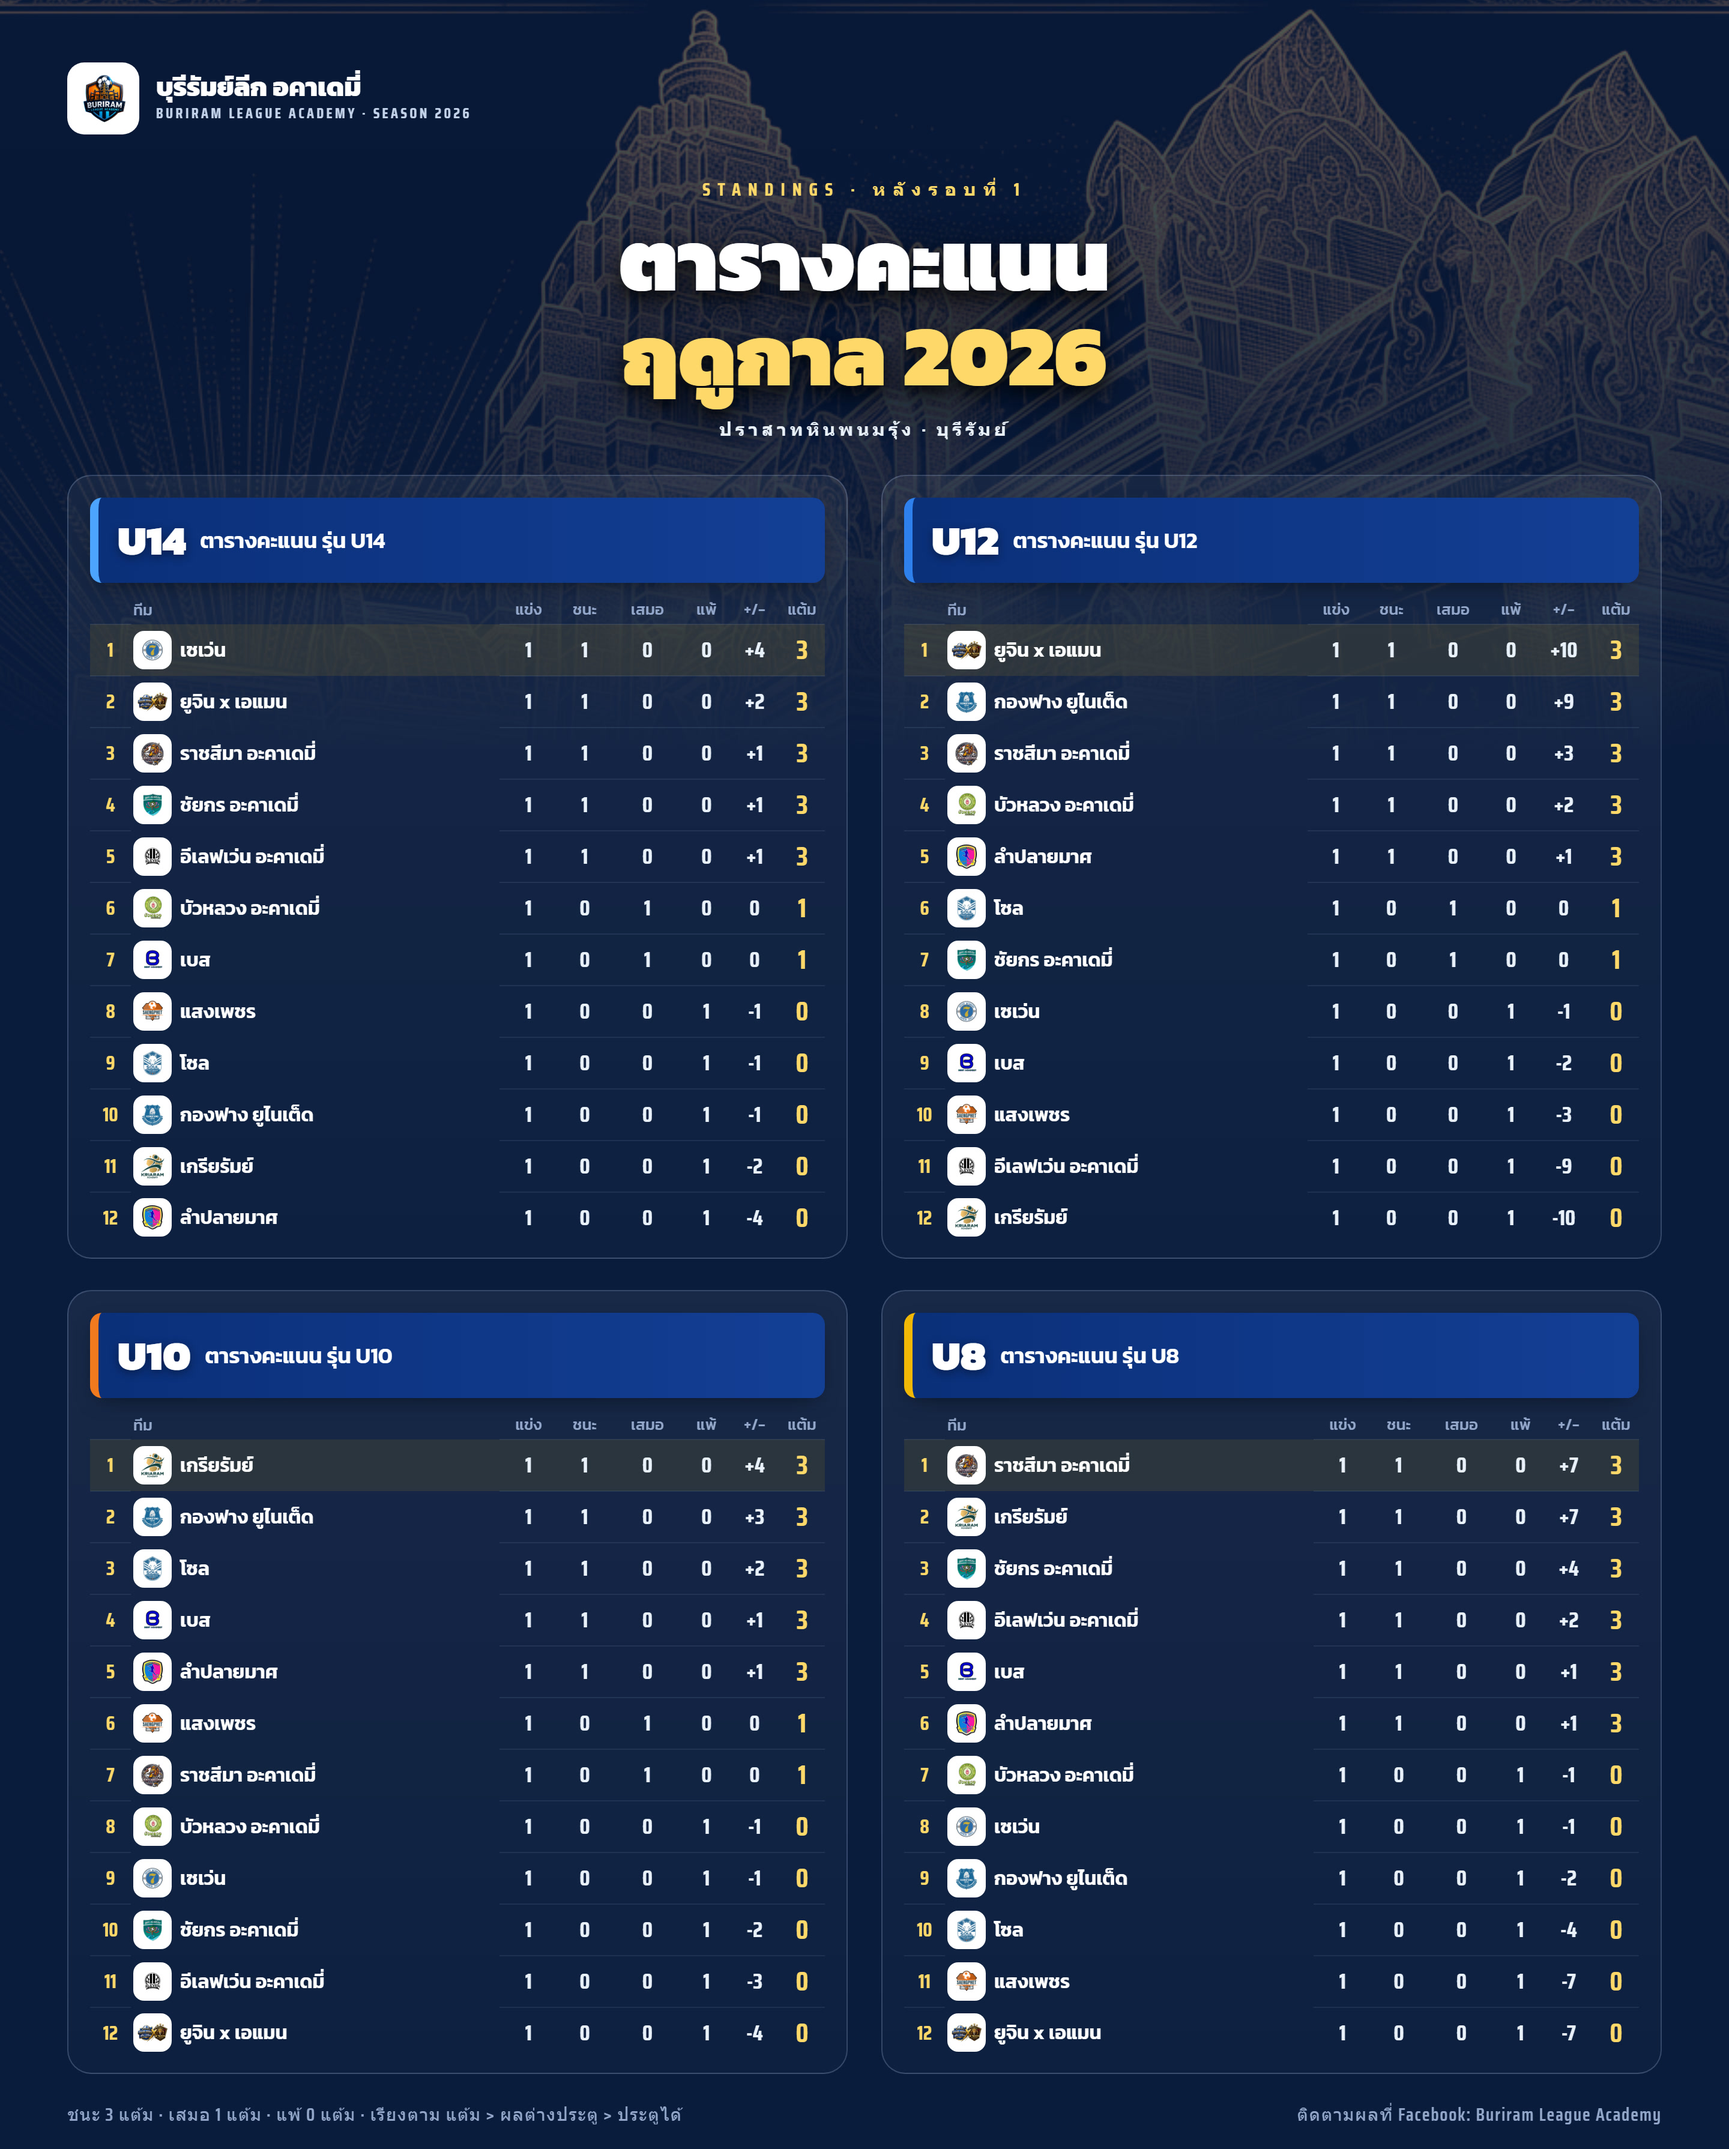
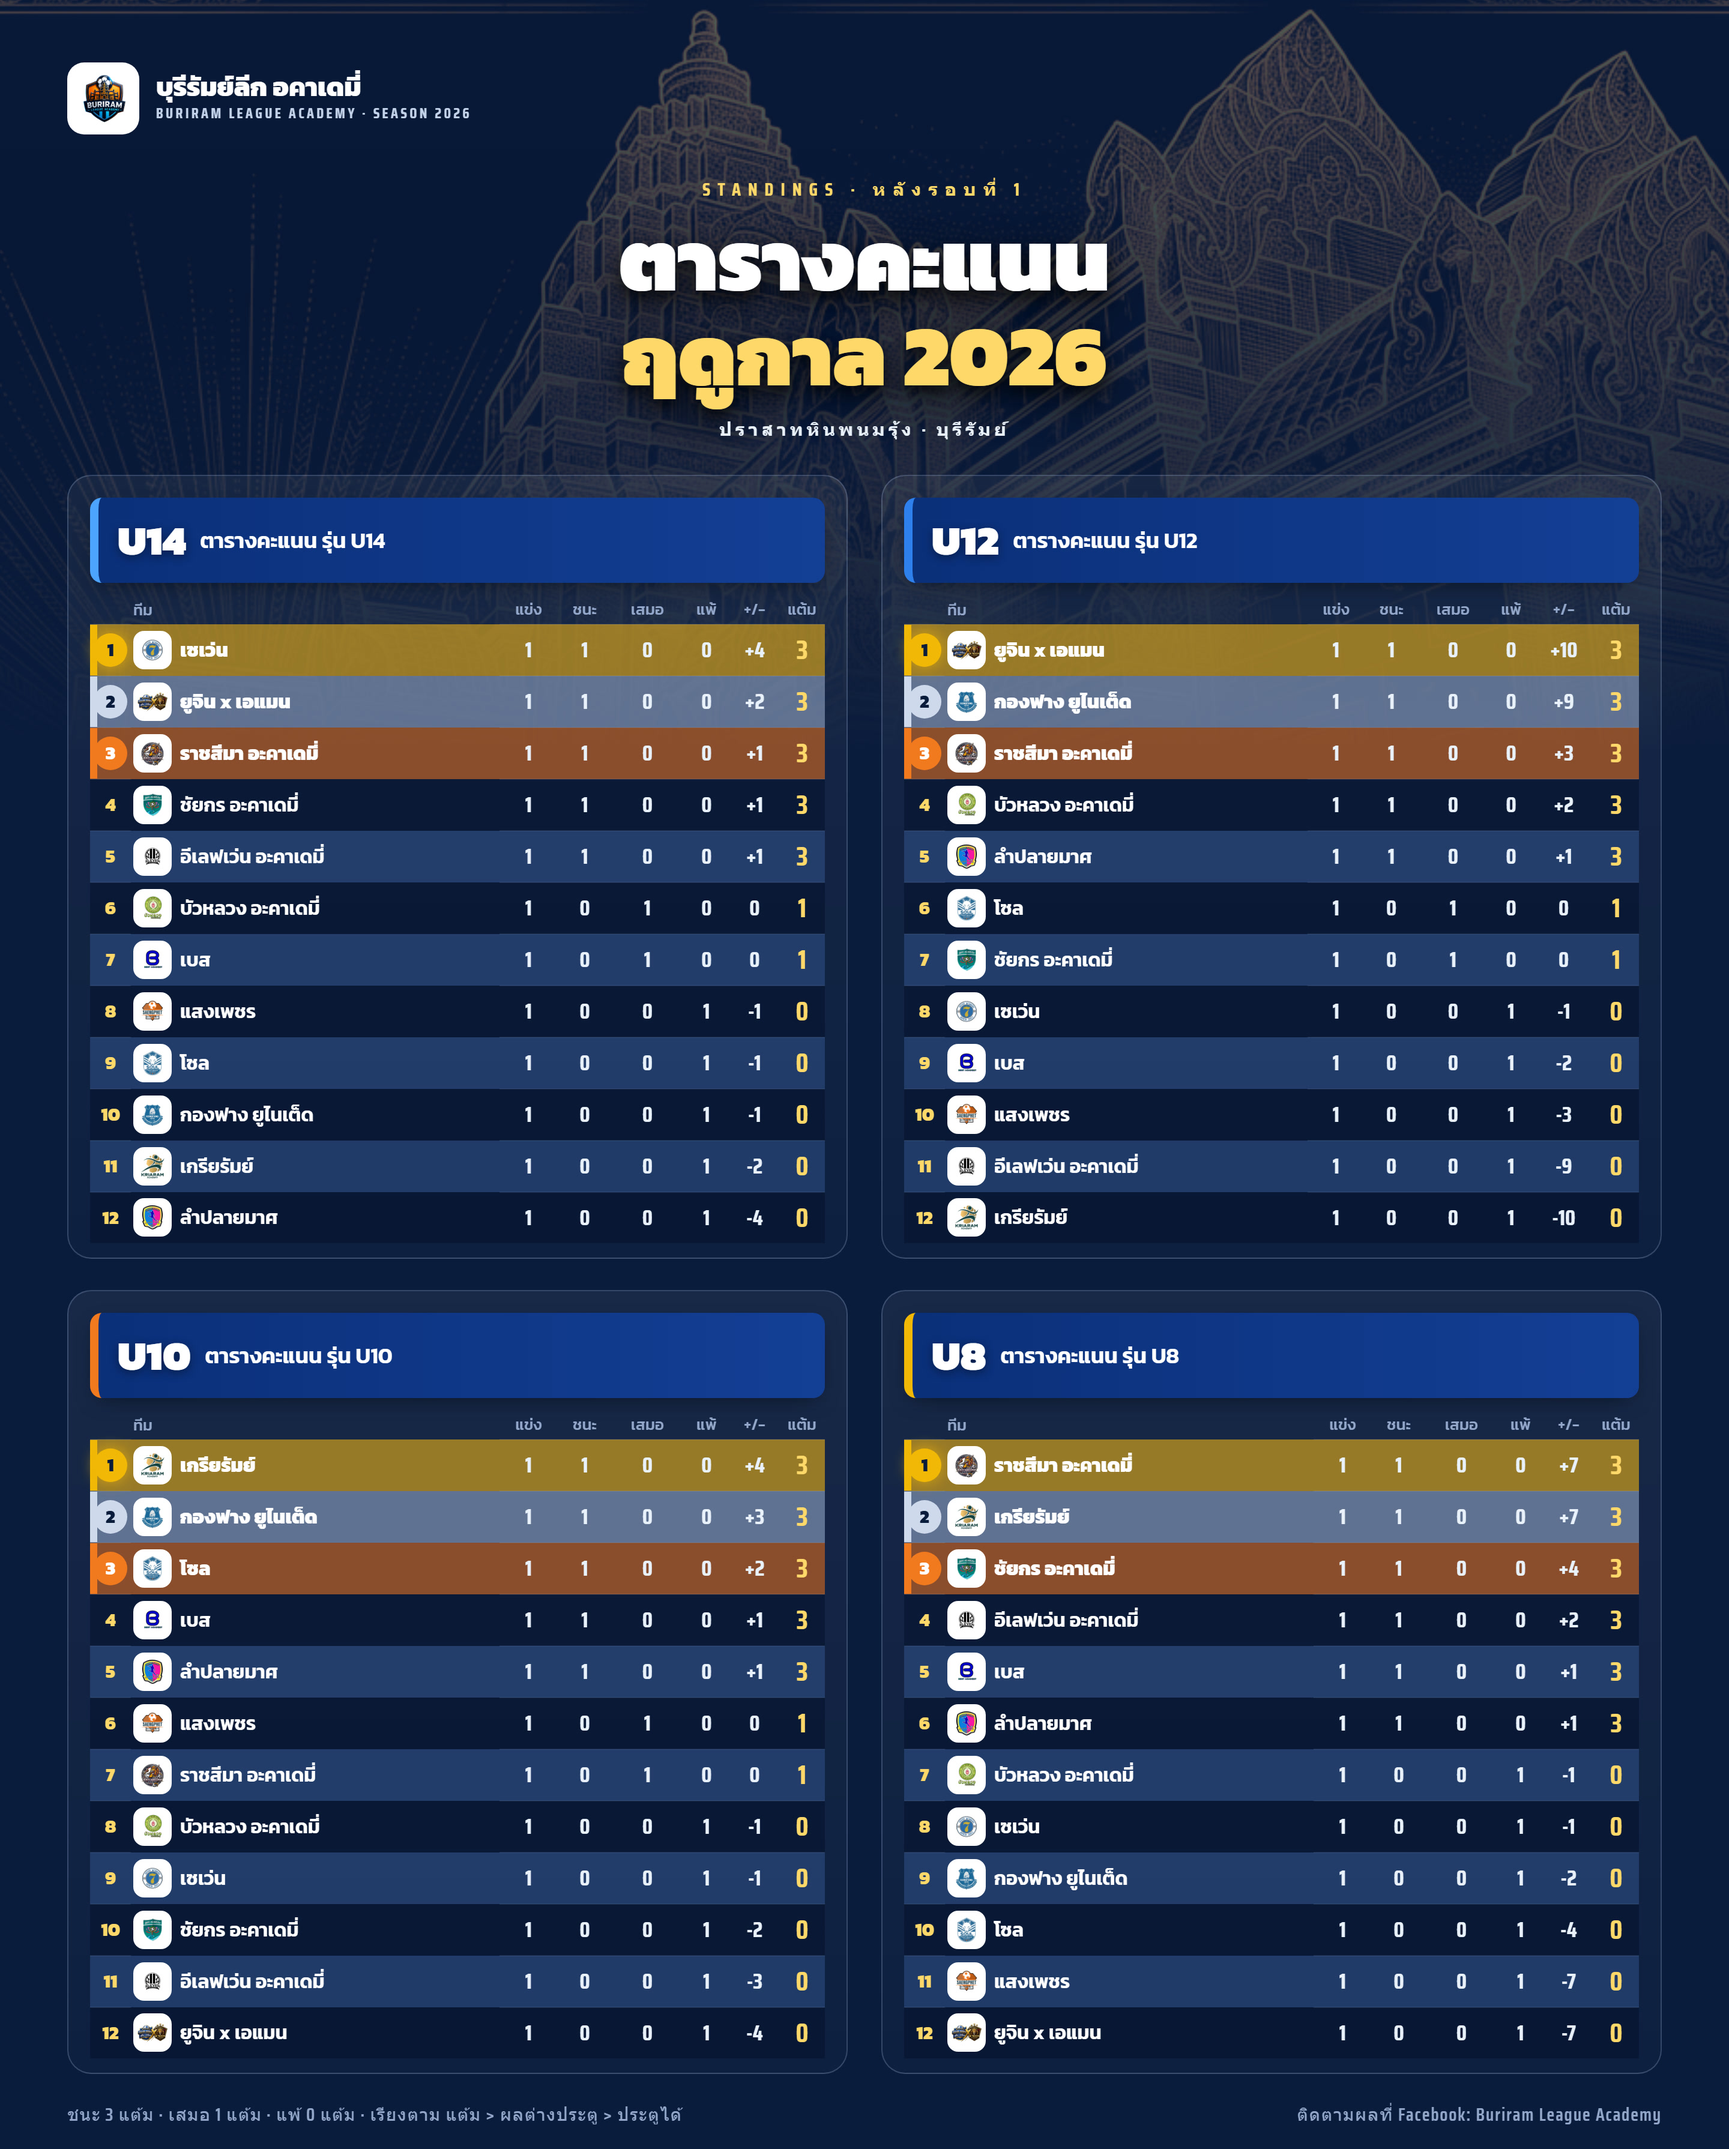
poster: standings rows shaded per position (gold/silver/bronze top 3 + zebra)

Changed region(s): [[0.0312, 0.6511, 0.9688, 0.9612], [0.0312, 0.2791, 0.9688, 0.5581]]

diff --git a/poster-template/make-standings.js b/poster-template/make-standings.js
@@ -54,7 +54,7 @@ function table(age) {
   const rows = standings(age).map((s, i) => {
     const gd = s.gf - s.ga;
     const nm = (posters.teams[s.slug] || {}).th || s.name;
-    return `<tr class="${i < 1 && s.p ? 'lead' : ''}"><td class="rk">${i + 1}</td>
+    return `<tr class="r${i + 1} z${i % 2}"><td class="rk"><b>${i + 1}</b></td>
       <td class="tm"><span class="lg"><img src="teams/${s.slug}.png"></span><span class="nm">${esc(nm)}</span></td>
       <td>${s.p}</td><td>${s.w}</td><td>${s.d}</td><td>${s.l}</td><td>${gd > 0 ? '+' : ''}${gd}</td><td class="pt">${s.pts}</td></tr>`;
   }).join('');
@@ -96,7 +96,21 @@ td.tm{display:table-cell;white-space:nowrap}
 .lg img{width:78%;height:78%;object-fit:contain}
 .nm{font-family:Kanit;font-weight:600;font-size:16px;color:#fff;vertical-align:middle}
 td.pt{font-size:22px;color:#FFD86A;width:34px}
-tr.lead td{background:rgba(242,184,7,.1)}
+/* per-position shading (reference poster: top-3 tinted, rest zebra) */
+tr.z0 td{background:rgba(70,110,185,.34)}
+tr.z1 td{background:rgba(6,18,46,.62)}
+tr.r1 td{background:rgba(232,172,24,.62)}
+tr.r2 td{background:rgba(185,203,236,.46)}
+tr.r3 td{background:rgba(226,108,28,.58)}
+tr.r1 td.tm .nm,tr.r2 td.tm .nm,tr.r3 td.tm .nm{font-weight:800}
+td.rk b{display:inline-flex;width:28px;height:28px;border-radius:50%;align-items:center;justify-content:center;font-family:Kanit;font-weight:800;font-size:15px;color:#FFD86A}
+tr.r1 td.rk b{background:#F2B807;color:#0A1B3D;box-shadow:0 0 12px rgba(242,184,7,.7)}
+tr.r2 td.rk b{background:#CFD9EC;color:#0A1B3D}
+tr.r3 td.rk b{background:#F2791E;color:#fff}
+tr.r1 td:first-child{box-shadow:inset 6px 0 0 #F2B807}
+tr.r2 td:first-child{box-shadow:inset 6px 0 0 #CFD9EC}
+tr.r3 td:first-child{box-shadow:inset 6px 0 0 #F2791E}
+tr.hd td{background:transparent!important;box-shadow:none!important}
 .foot{margin-top:22px;display:flex;justify-content:space-between;font-family:'Saira Condensed';font-size:15px;letter-spacing:.06em;color:#93A7CB}
 </style></head><body><div class="poster"><img class="castle" src="castle-bg.jpg"><div class="fade1"></div><div class="fade2"></div>
 <div class="wrap">
